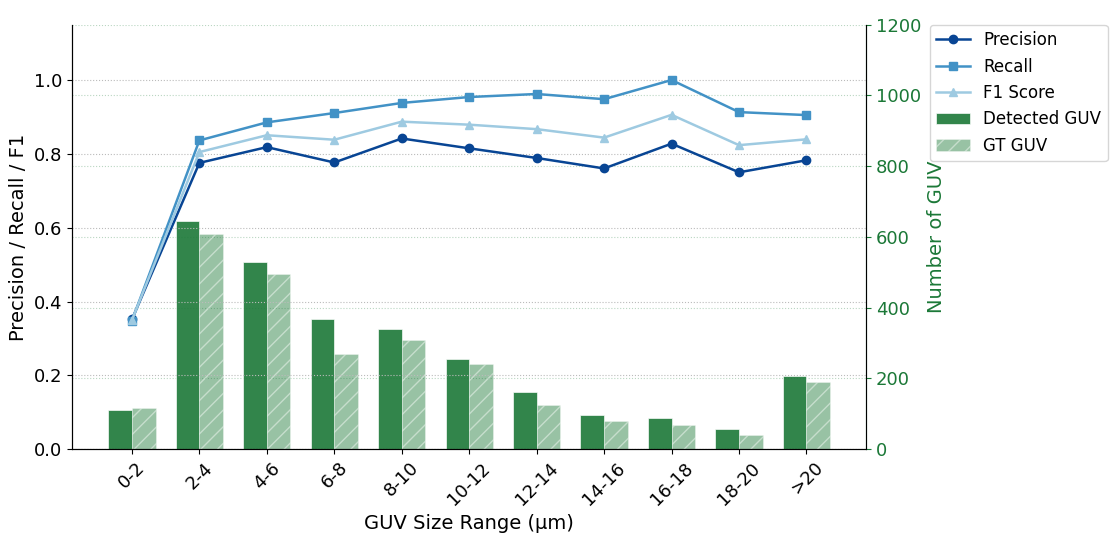
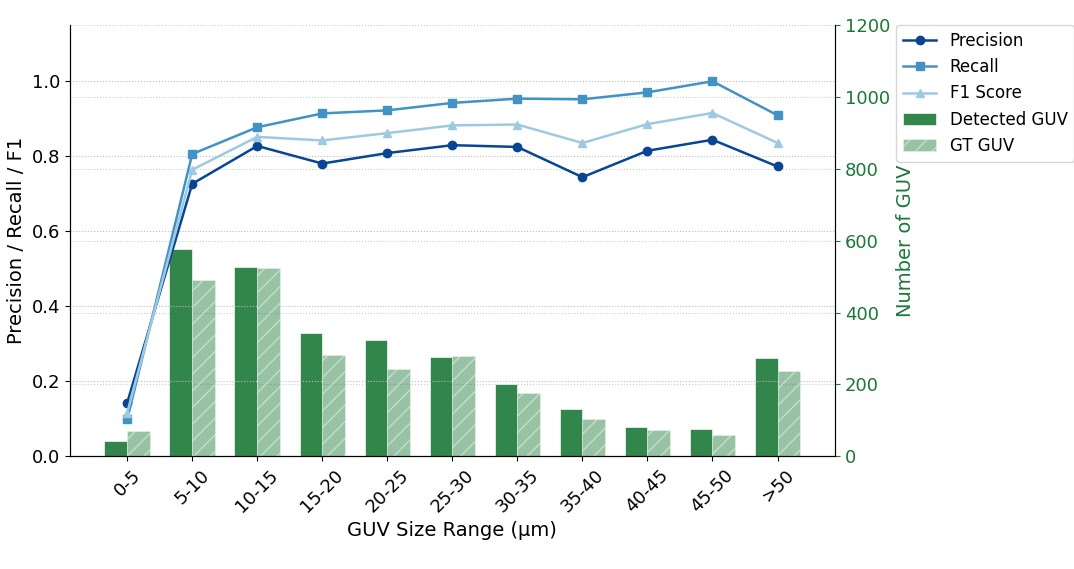
update calibration

diff --git a/guv_detection/tools/test.py b/guv_detection/tools/test.py
@@ -14,10 +14,12 @@ if __name__ == "__main__":
     parser.add_argument("--main_folder", type=str, default="/media/angelo/OS/Users/lasal/OneDrive - Scuola Superiore Sant'Anna/PhD_notes/Liposomes detection", 
                         help="Path to the Liposomes detection folder")
     parser.add_argument("--folder", type=str, default="test_folder", help="test folder, it has 'test' subgolder with 'images' and 'labels'")
+    parser.add_argument("--model_folder", type=str, default=os.path.join('C:\\', 'Users', 'lasal', 'Documents', 'GUV_detector'),
+                        help="Path to the GUV_detector folder containing trained models")
 
     args = parser.parse_args()
 
-    model_path = os.path.join('/home', 'angelo', 'Documenti', 'GUV_detector', f'train_{args.modality}', f'train_{args.model_size}', 'weights', 'best.pt')  # Pretrained model path
+    model_path = os.path.join(args.model_folder, f'train_{args.modality}', f'train_{args.model_size}', 'weights', 'best.pt')  # Pretrained model path
     model = ultralytics.YOLO(model_path)  # Load a custom model
 
     # model predint on the folder

diff --git a/guv_detection/evaluation/advanced_evaluation.py b/guv_detection/evaluation/advanced_evaluation.py
@@ -13,7 +13,7 @@ import matplotlib.pyplot as plt
 
 CONF_THRESH  = 0.25
 IOU_THRESH   = 0.5
-MU_PER_PX    = 0.1205   # µm per pixel (Nikon)
+MU_PER_PX    = 0.339   # µm per pixel (Nikon)
 
 # ── Style constants ────────────────────────────────────────────────────────────
 FS_LABEL  = 14
@@ -171,9 +171,9 @@ def evaluate(folder, model_size, modality):
     px_last   = ">100"
 
     # µm bins  (formula: sqrt(max²+min²)/sqrt(2) * MU_PER_PX, Nikon 0.1205)
-    um_edges  = list(range(0, 22, 2))
+    um_edges  = list(range(0, 55, 5))
     um_labels = [f"{um_edges[i]}-{um_edges[i+1]}" for i in range(len(um_edges) - 1)]
-    um_last   = ">20"
+    um_last   = ">50"
 
     stats = {'TP': 0, 'FP': 0, 'FN': 0}
     stats_per_bin    = defaultdict(lambda: {'TP': 0, 'FP': 0, 'FN': 0, 'GT_total': 0})

diff --git a/README.md b/README.md
@@ -219,3 +219,28 @@ The dataset folder used for training must be organized as follows:
 |   |   |-- DATA
 ```
 Each modality (e.g., `rgb`, `grey`) should contain its own DATA directory with the standard `train`, `val`, and `test` subfolders.
+
+## 📊 Evaluation
+
+Model performance is evaluated bin-wise by GUV size, using IoU-based matching (IoU ≥ 0.5) between predicted and ground-truth bounding boxes. For each size bin, Precision, Recall, and F1-score are computed alongside the raw detection counts.
+
+GUV size is expressed in physical units (µm) using the dataset formula:
+
+$$\text{size} = \frac{\sqrt{d_{\max}^2 + d_{\min}^2}}{\sqrt{2}} \times \mu\text{m/pixel}$$
+
+where $d_{\max}$ and $d_{\min}$ are the longer and shorter sides of the bounding box in pixels.
+
+The figure below shows the evaluation of the **YOLOv11-nano** model trained on **greyscale** images (Nikon, 0.1205 µm/pixel). The model achieves consistently high Recall (> 0.85) across all size ranges, with Precision slightly lower for very small GUVs (< 2 µm), where detections are sparse.
+
+![Evaluation by GUV size (µm) — grey YOLOv11_n](guv_detection/images/Eval-um-grey-n.png)
+
+<!-- To run the evaluation on your test set:
+
+```bash
+python guv_detection/evaluation/advanced_evaluation.py \
+  --model_size n \
+  --modality grey \
+  --folder <path_to_data_root>
+```
+
+The script expects a `predict_{model_size}/` folder inside the test split (generated by `test.py`) and produces two figures: one with bbox sizes in pixels and one in µm. -->
